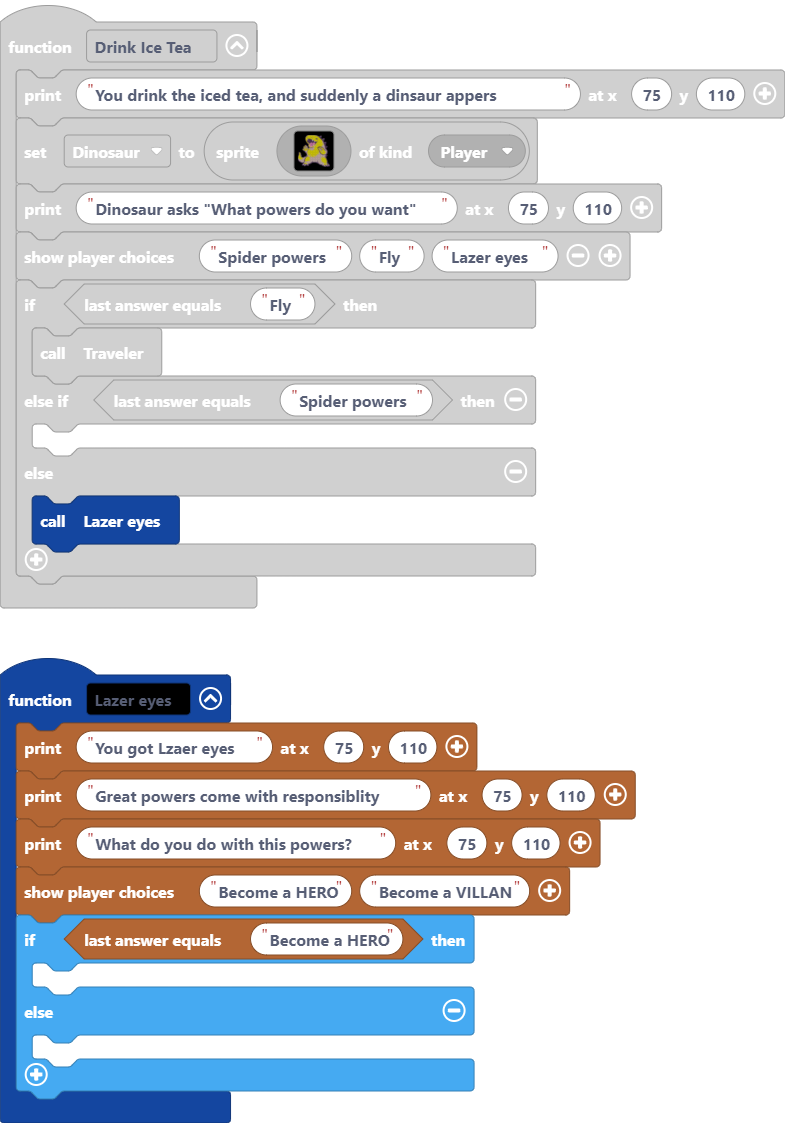
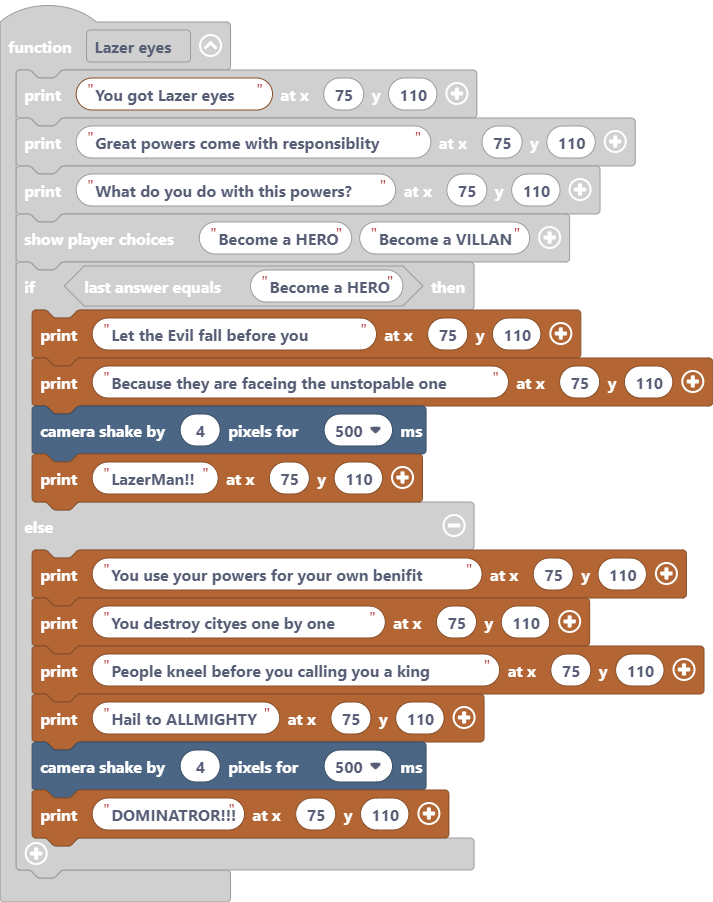
Update main.blocks, main.ts

diff --git a/main.ts b/main.ts
@@ -131,14 +131,22 @@ function Traveler () {
     game.over(true, effects.confetti)
 }
 function Lazer_eyes () {
-    story.printText("You got Lzaer eyes", 75, 110)
+    story.printText("You got Lazer eyes", 75, 110)
     story.printText("Great powers come with responsiblity", 75, 110)
     story.printText("What do you do with this powers?", 75, 110)
     story.showPlayerChoices("Become a HERO", "Become a VILLAN")
     if (story.checkLastAnswer("Become a HERO")) {
-    	
+        story.printText("Let the Evil fall before you", 75, 110)
+        story.printText("Because they are faceing the unstopable one", 75, 110)
+        scene.cameraShake(4, 500)
+        story.printText("LazerMan!!", 75, 110)
     } else {
-    	
+        story.printText("You use your powers for your own benifit", 75, 110)
+        story.printText("You destroy cityes one by one", 75, 110)
+        story.printText("People kneel before you calling you a king", 75, 110)
+        story.printText("Hail to ALLMIGHTY", 75, 110)
+        scene.cameraShake(4, 500)
+        story.printText("DOMINATROR!!!", 75, 110)
     }
 }
 function _10_Miles () {
